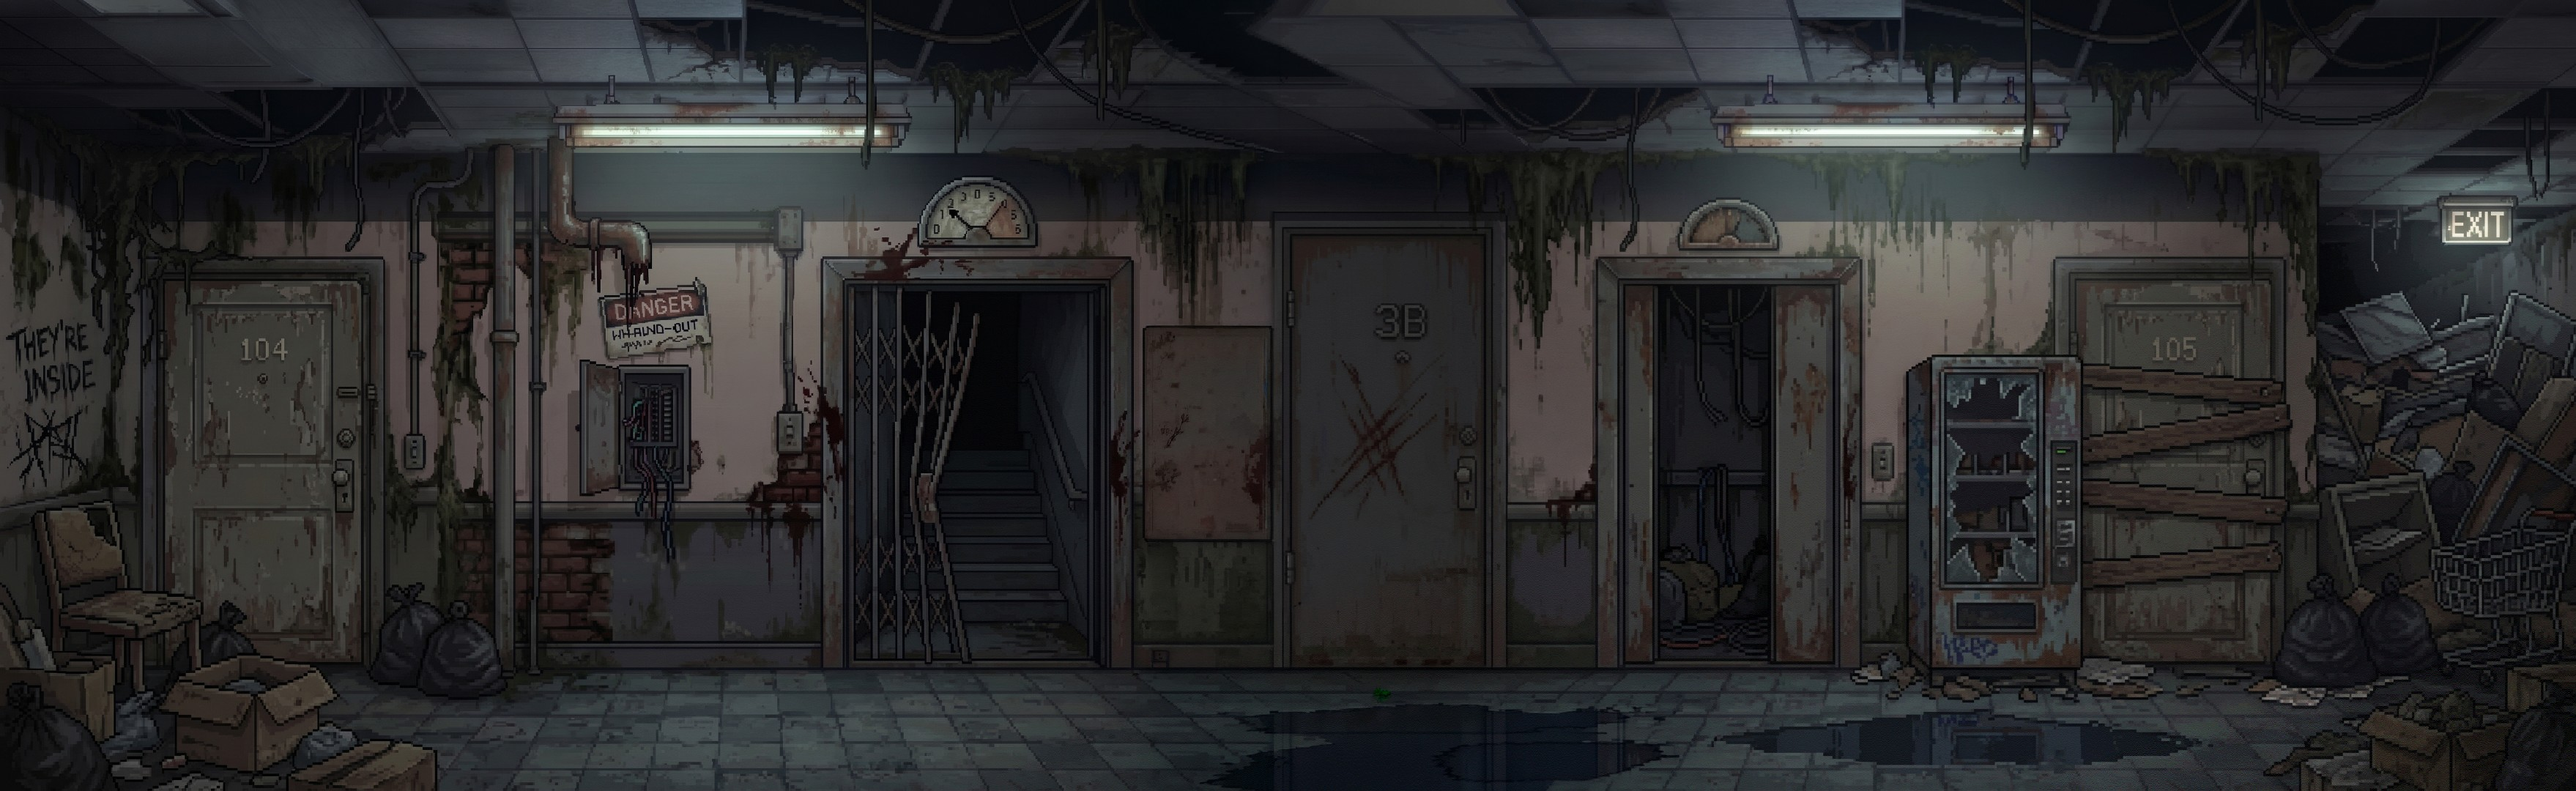
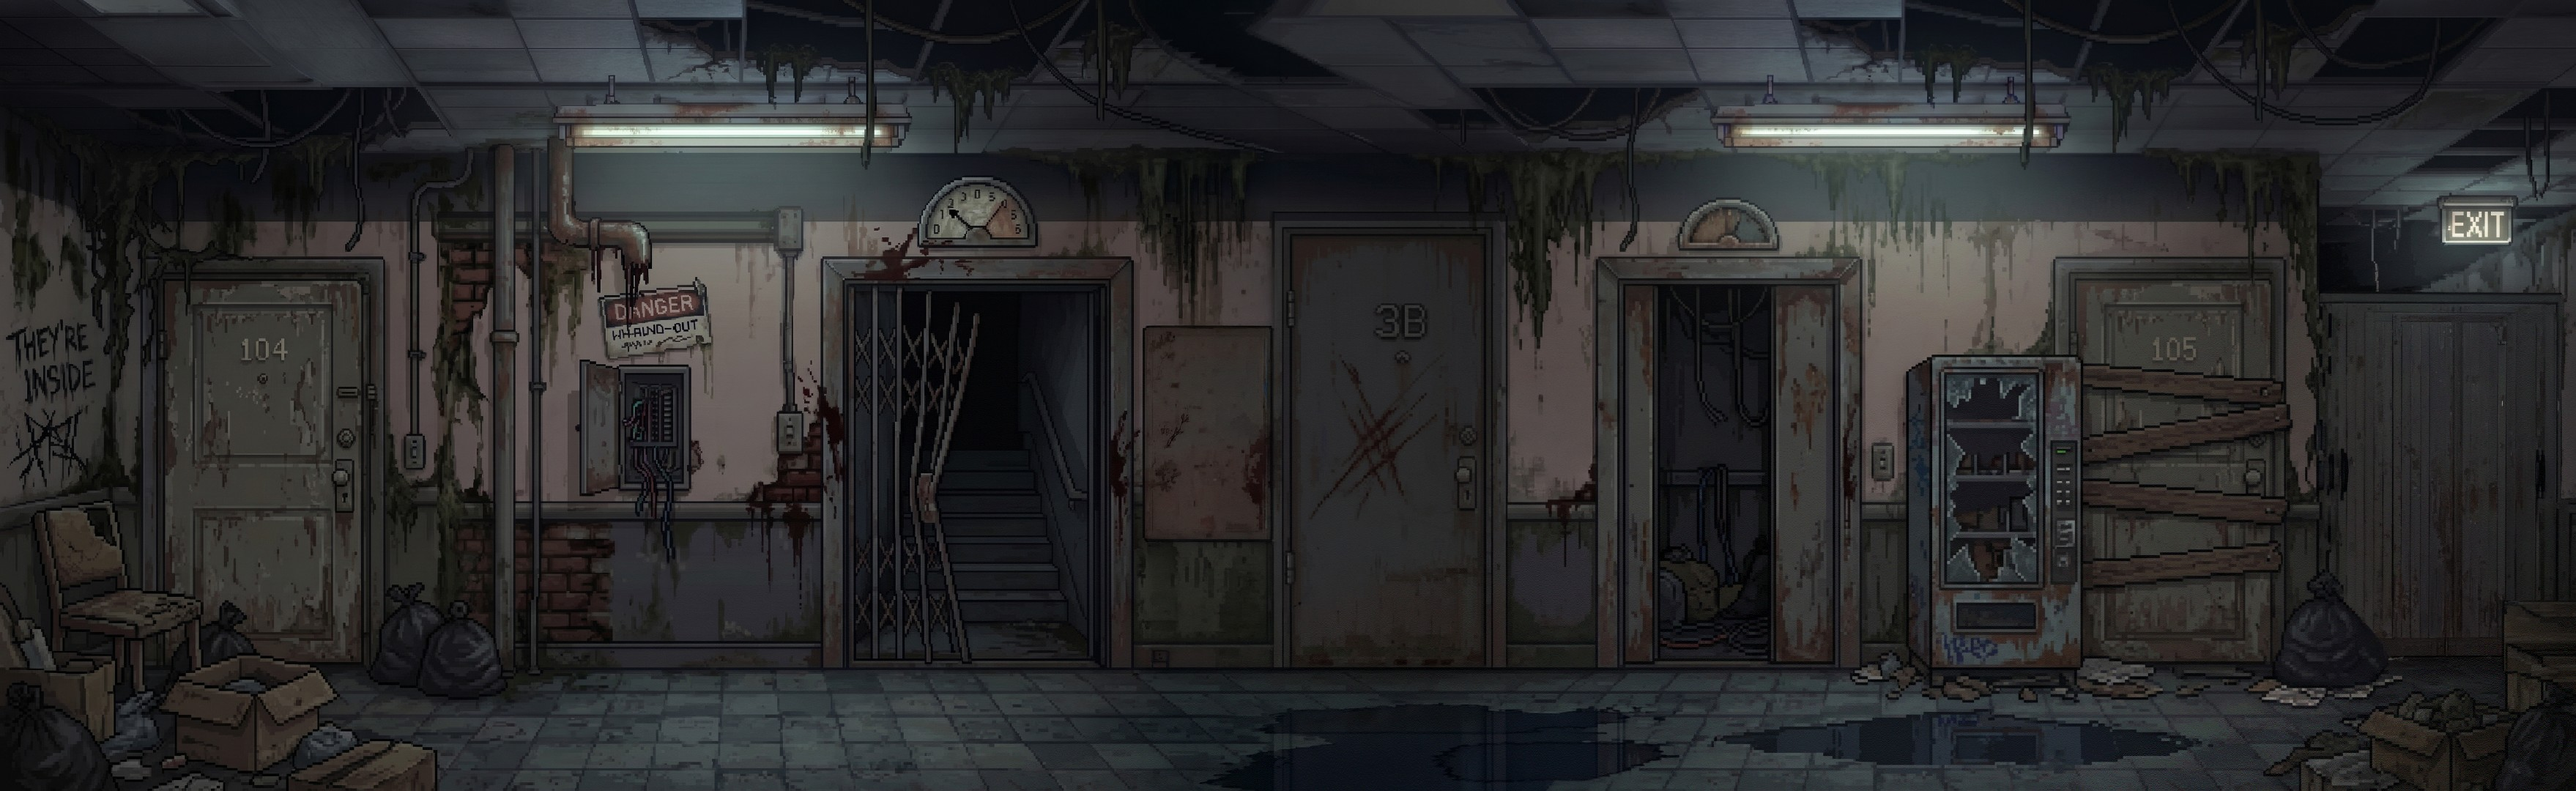
Story: apartment and bar fighter scale from references, updated hallway art, metro train sound

Changed region(s): [[0.8988, 0.3667, 1.0, 0.8556]]

diff --git a/index.html b/index.html
@@ -374,7 +374,7 @@ const CH=[
 //    hit — номер кадра удара (до него — замах, после — возврат)
 // размер ячейки берётся из самой картинки при загрузке (cw, ch в таблице — только до загрузки)
 // версия картинок: менять при каждой замене спрайтов, иначе браузеры игроков показывают старые из кэша
-const AV='20261114h';
+const AV='20261116a';
 function sheet(src,frames,cw,ch,fps,o){
   const img=new Image(),a={img,frames,cw,ch,fps,...o};
   img.onload=()=>{a.cw=img.naturalWidth/frames;a.ch=img.naturalHeight;};
@@ -2709,7 +2709,7 @@ const SDIFF=[
 // [картинка, x, y, {pf — параллакс}] в координатах мира (картинки переднего плана — в масштабе фона, на экран ×0.5).
 // kind 'in' — коридор, собранный из стен-ассетов одной высоты (масштаб SI), потолок с карнизом, пол рисуется.
 const ROOMS={
-  apt:{name:'КВАРТИРА 3B',kind:'img',bg:'loc_apt.jpg',w:1043,gy:470,al:40,ar:1003,z:.8,
+  apt:{name:'КВАРТИРА 3B',kind:'img',bg:'loc_apt.jpg',w:1043,gy:465,al:40,ar:1003,z:1.375, // рост коня — по референсу (258 px на экране)
     fgs:[['apt_fg_chair',-20,392,{pf:1.18}],['apt_fg_table',720,402,{pf:1.18}]],
     lights:[{x:795,y:112,r:200,c:'255,196,120',a:.28,fl:.006},{x:75,y:338,r:130,c:'140,180,255',a:.26,tv:1}],tint:'rgba(10,8,22,.18)',
     enter:['Нью-Йорк. Январь девяносто седьмого. Снег падал на город, как пепел на пьяницу, уснувшего с сигаретой.',
@@ -2756,7 +2756,7 @@ const ROOMS={
           lom:['Тяжёлая чугунная крышка. Голыми руками не поднять — нужен рычаг. Лом, монтировка, что-нибудь.']},
         lines:['Поддел крышку ломом. Чугун заскрежетал, как старая дверь в чужую жизнь.','Вниз вела ржавая лестница — прямо в заброшенный перегон.']},
       {id:'taxi',x0:1300,x1:1420,label:'такси',once:1,lines:['Таксист спал за рулём. Или умер. В этом районе разница небольшая.']}]},
-  bar:{name:'БАР «У РЖАВОГО»',kind:'img',bg:'../arena_bar.jpg',w:1634,gy:500,al:236,ar:1398,z:.8,tint:'rgba(20,10,20,.18)',
+  bar:{name:'БАР «У РЖАВОГО»',kind:'img',bg:'../arena_bar.jpg',w:1634,gy:508,al:236,ar:1398,z:1.117, // рост — по референсу (210 px)tint:'rgba(20,10,20,.18)',
     fgs:[['../arena_bar_fg',1387,419,{s:540/1184}]], // ящик и бочка арены бара (картинка в масштабе 1184 по высоте)
     lights:[{x:298,y:142,r:95,c:'255,214,140',a:.3,fl:.004,cone:1},{x:505,y:146,r:95,c:'255,220,150',a:.3,fl:.012,cone:1},{x:720,y:142,r:95,c:'205,255,190',a:.26,fl:.004,cone:1}],
     enter:['Бар «У Ржавого». Дым, джаз из сломанного автомата и двадцать глаз, которые сразу поняли, зачем я пришёл.'],
@@ -2994,12 +2994,13 @@ function storyFront(cx){
   for(const[n,x,y,o]of R.fgs||[]){const im=simg(n);if(!imgOk(im))continue;const pf=(o&&o.pf)||1,k=((o&&o.s)||.5)/RZ();ctx.drawImage(im,x-cx*(pf-1),y,im.naturalWidth*k,im.naturalHeight*k);}
   if(R.train)drawMetroTrain(R);
 }
-// поезд метро проносится по путям перед платформой: гул, тряска, фары
+// поезд метро проносится по путям перед платформой: звук проезда (assets/audio/metro_train.mp3), тряска
+const TRAIN_SND=new Audio('assets/audio/metro_train.mp3');TRAIN_SND.volume=.7;
 function drawMetroTrain(R){
   const T=STY.mtrain,im=simg('metro_train');if(!imgOk(im))return;
   const w=im.naturalWidth*.5/RZ(),h=im.naturalHeight*.5/RZ(); // y — верх поезда по референсу (R.train)
-  if(T.x<-8e3){if(--T.wait<=0){T.x=-w-200;T.wait=1100+Math.random()*900;snd('roar');}return;}
-  T.x+=30;shake=Math.max(shake,3.5);if(frame%9===0)snd('fall');
+  if(T.x<-8e3){if(--T.wait<=0){T.x=-w-200;T.wait=1100+Math.random()*900;if(!musicOff){TRAIN_SND.currentTime=0;TRAIN_SND.play().catch(()=>{});}}return;}
+  T.x+=30;shake=Math.max(shake,3);
   ctx.drawImage(im,T.x,R.train,w,h);
   if(T.x>R.w+200)T.x=-9e3;
 }
